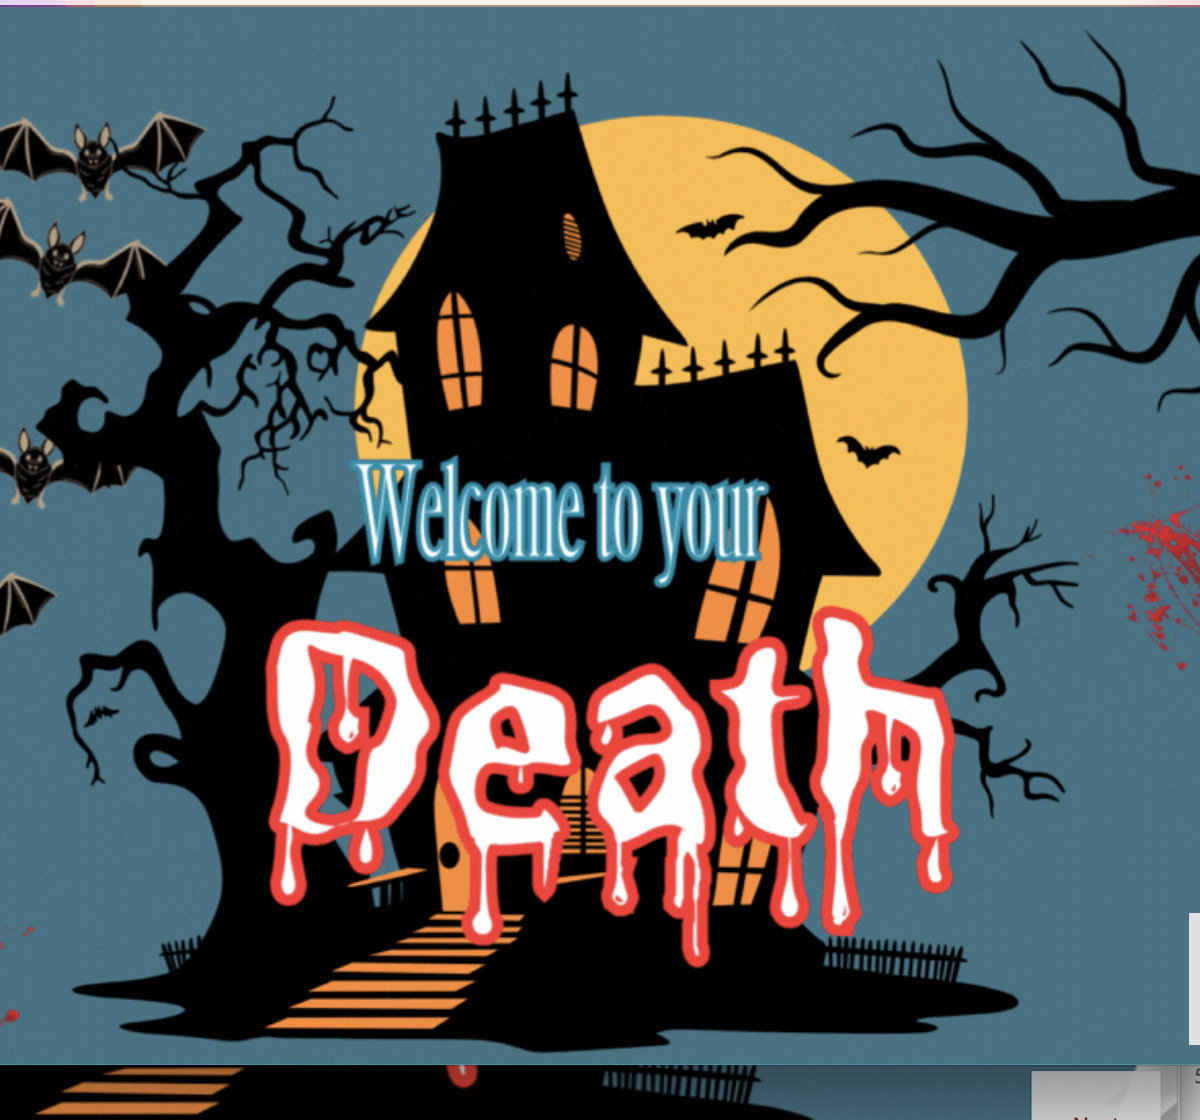
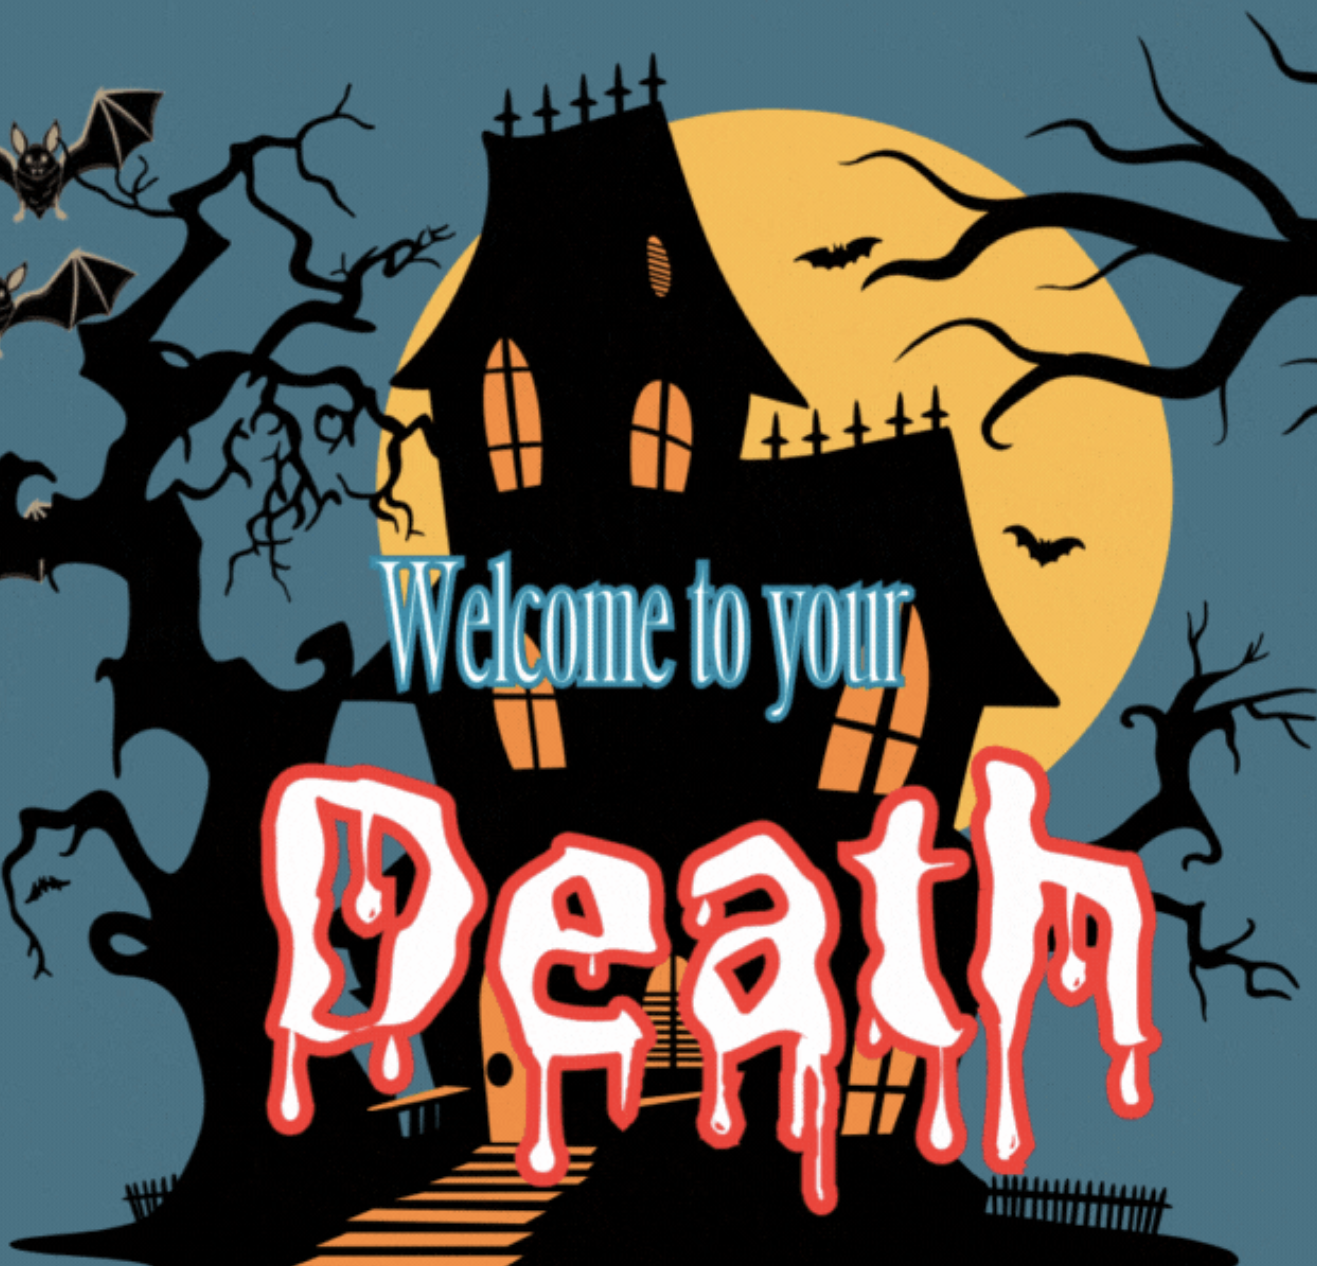
edited Education page

diff --git a/maisha_mahrin/about.html b/maisha_mahrin/about.html
@@ -51,6 +51,165 @@
         <div class="bar"></div>
       </div>
     </nav>
+
+    <!-- Experiences section -->
+    <h1 class="experience-title">Education</h1>
+    <div class="experience-container">
+      <!-- Experience Card -->
+      <div class="experience-card" onclick="openExperience('experience1')">
+        <div class="experience-header">
+          <span class="experience-companyposition"
+            >New York University (NYU) - Abu Dhabi, UAE and New York, US</span
+          >
+          <span class="date-range">Expected Graduation: May 2024</span>
+        </div>
+        <p class="experience-skills">
+          Major: Computer Science
+        </p>
+      </div>
+
+      <div class="experience-card" onclick="openExperience('experience2')">
+        <div class="experience-header">
+          <span class="experience-companyposition"
+            >NYU Stern School of Business</span
+          >
+          <span class="date-range">Feb 2021 - May 2022</span>
+        </div>
+        <p class="experience-skills">
+          Minor: Business Studies
+        </p>
+      </div>
+
+
+      <div class="experience-card" onclick="openExperience('experience3')">
+        <div class="experience-header">
+          <span class="experience-companyposition"
+            >NYU Abu Dhabi</span
+          >
+          <span class="date-range">Feb 2023 - May 2024</span>
+        </div>
+        <p class="experience-skills">
+          Minor: Interactive Media
+        </p>
+      </div>
+
+      <!-- Full Experience Details (Hidden initially) -->
+      <div class="experience-details" id="experience1">
+        <span class="close-button" onclick="closeExperience('experience1')"
+          >&times;</span
+        >
+        <!-- Full details -->
+        <h3>New York University - Abu Dhabi, UAE and New York, US</h3>
+        <span>Expected Graduation: May 2024</span>
+        <div>Relevant Coursework: </div>
+        <ul>
+          <li>
+            Agile Software DevAlgorithms
+          </li>
+          <li>
+            Applied Machine Learning
+          </li>
+          <li>
+            Operating Systems
+          </li>
+          <li>
+            Comp Networks
+          </li>
+          <li>
+            Blockchain Technology Development
+          </li>
+          <li>
+            Statistics
+          </li>
+          <li>
+            Data Analysis
+          </li>
+          <li>
+            Operations Management
+          </li>
+          <li>
+            Microeconomics
+          </li>
+          <li>
+            Macroeconomics
+          </li>
+        </ul>
+      </div>
+      
+
+      <div class="experience-details" id="experience2">
+        <span class="close-button" onclick="closeExperience('experience2')"
+          >&times;</span
+        >
+            <h3>NYU Stern School of Business</h3>
+        <span>Feb 2021 - May 2022</span>
+        <div>Relevant Coursework: </div>
+
+        <ul>
+          <li>
+            Introduction to Microeconomics
+          </li>
+          <li>
+            Introduction to Macroeconomics
+          </li>
+          <li>
+            Statistics
+          </li>
+          <li>
+            Regression
+          </li>
+          <li>
+            Operations Management
+          </li>
+          <li>
+            Calculus
+          </li>
+          <li>
+            Data Analysis
+          </li>
+          <li>
+            Operations Management
+          </li>
+          <li>
+            Computational Social Science
+          </li>
+          <li>
+            Introduction to Accounting
+          </li>
+        </ul>
+      </div>
+
+
+      <div class="experience-details" id="experience3">
+        <span class="close-button" onclick="closeExperience('experience3')"
+          >&times;</span
+        >
+        <!-- Full details -->
+              <h3>NYU Stern School of Business</h3>
+        <span>Feb 2021 - May 2022</span>
+        <div>Relevant Coursework: </div>
+
+        <ul>
+          <li>
+            Introduction to Interactive Media
+          </li>
+          <li>
+            Communications Lab
+          </li>
+          <li>
+            Computational Social Science
+          </li>
+          <li>
+            Art Intelligence
+          </li>
+          <li>
+           UX Design Experience
+          </li>
+        </ul>
+      </div>
+      <!-- Repeat for other experiences -->
+    </div>
+    <div class="overlay" id="overlay" onclick="closeExperience()"></div>
     <script src="script.js"></script>
   </body>
   <footer>

diff --git a/maisha_mahrin/style.css b/maisha_mahrin/style.css
@@ -152,7 +152,7 @@ body, html {
 
 /*Home Page CSS*/
 .landing-page {
-    background-image: url('LandingImg.png');
+    background-image: url('philyMaishaThemeMatch.png');
     background-size: cover;
     background-position: center;
     height: 100vh;
@@ -162,13 +162,34 @@ body, html {
     align-items: center;
     color: white;
 }
-
-.name{
-    font-size: 3em;
-    font-family: bold;
-    text-shadow: 2px 2px 4px rgba(0, 0, 0, 0.5);
+@keyframes flash {
+    0% {
+        background-position: left;
+    }
+    50% {
+        background-position: right;
+    }
+    100% {
+        background-position: left;
+    }
 }
 
+.name{
+    font-family: bold;
+    text-shadow: 2px 2px 4px rgba(0, 0, 0, 0.7);
+    display: inline-block; /* Adjust as needed */
+    font-size: 3em; /* Adjust as needed */
+    color: white; /* Text color */
+    padding: 10px 20px; /* Adjust as needed */
+    background: linear-gradient(90deg, transparent, #6b705c, transparent);
+    background-size: 200% auto; /* Adjust the size of the gradient */
+    animation: flash 4s linear infinite;
+}
+
+.content{
+    text-shadow: 2px 2px 4px rgba(0, 0, 0, 0.7);
+
+}
 /*Portfolio Page CSS*/
 
 .bodyWebPage{
@@ -409,7 +430,7 @@ body, html {
     left: 0;
     width: 100%;
     height: 100%;
-    background-color: rgba(0, 0, 0, 0.5);
+    background-color: rgba(54, 22, 1, 0.5);
     z-index: 999; /* Ensure it's below the experience details but above everything else */
 }
 

diff --git a/maisha_mahrin/index.html b/maisha_mahrin/index.html
@@ -52,7 +52,7 @@
     </nav>
     <div class="landing-page">
       <div class="name">Maisha Mahrin</div>
-      <h2 class="content">Your Friednly Neighborhood Tech Wizard</h2>
+      <h2 class="content">Your Friendly Neighborhood Tech Wizard</h2>
       <p>@painter_mash</p>
     </div>
     <script src="script.js"></script>
